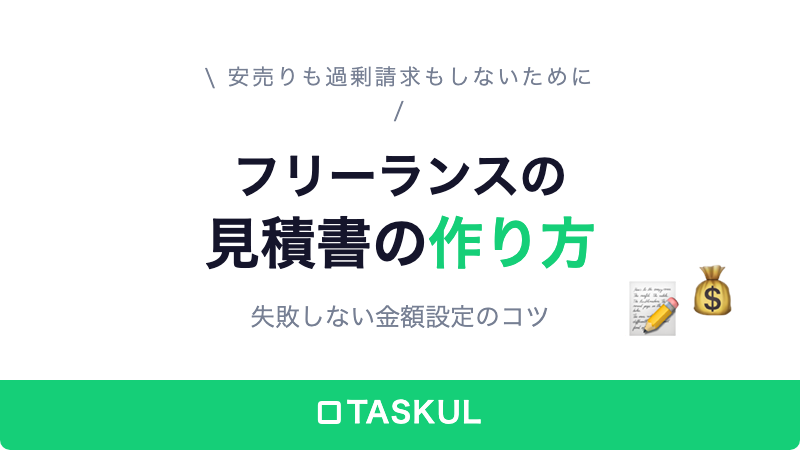
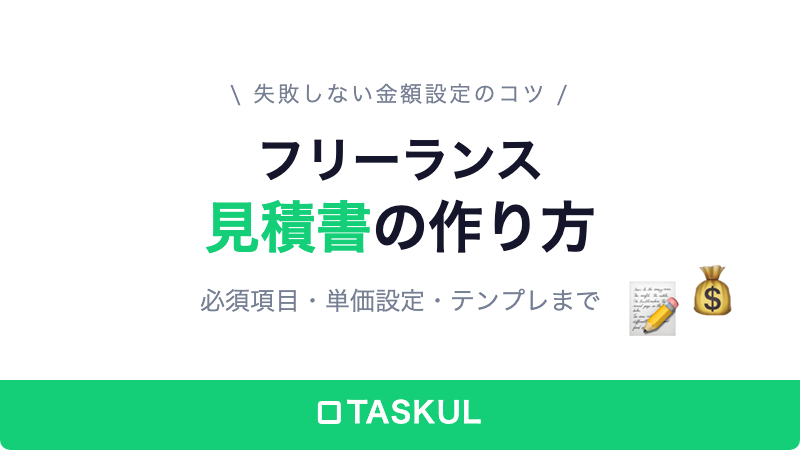
fix: サムネイルの改行・レイアウト修正

Changed region(s): [[0.25, 0.3111, 0.75, 0.7467], [0.25, 0.1244, 0.75, 0.2489]]

diff --git a/thumbnails/estimate.html b/thumbnails/estimate.html
@@ -58,12 +58,12 @@ body { width: 800px; height: 450px; overflow: hidden; }
     <span class="logo-text">TASKUL</span>
   </div>
   <div class="content">
-    <p class="catch">\ 安売りも過剰請求もしないために /</p>
+    <p class="catch">\ 失敗しない金額設定のコツ /</p>
     <div class="title">
-      <p class="line1">フリーランスの</p>
-      <p class="line2">見積書の<span class="accent">作り方</span></p>
+      <p class="line1">フリーランス</p>
+      <p class="line2"><span class="accent">見積書</span>の作り方</p>
     </div>
-    <p class="sub">失敗しない金額設定のコツ</p>
+    <p class="sub">必須項目・単価設定・テンプレまで</p>
   </div>
   <span class="emoji1">📝</span>
   <span class="emoji2">💰</span>

diff --git a/thumbnails/invoice.html b/thumbnails/invoice.html
@@ -60,10 +60,10 @@ body { width: 800px; height: 450px; overflow: hidden; }
   <div class="content">
     <p class="catch">\ 納品したのに入金がない...を防ぐ /</p>
     <div class="title">
-      <p class="line1">フリーランスの</p>
-      <p class="line2"><span class="accent">請求漏れ</span>を防ぐ方法</p>
+      <p class="line1"><span class="accent">請求漏れ</span>を防ぐ</p>
+      <p class="line2">5つの仕組み</p>
     </div>
-    <p class="sub">仕組みで解決する5つの対策</p>
+    <p class="sub">フリーランスの請求管理術</p>
   </div>
   <span class="emoji1">💸</span>
   <span class="emoji2">🛡</span>
